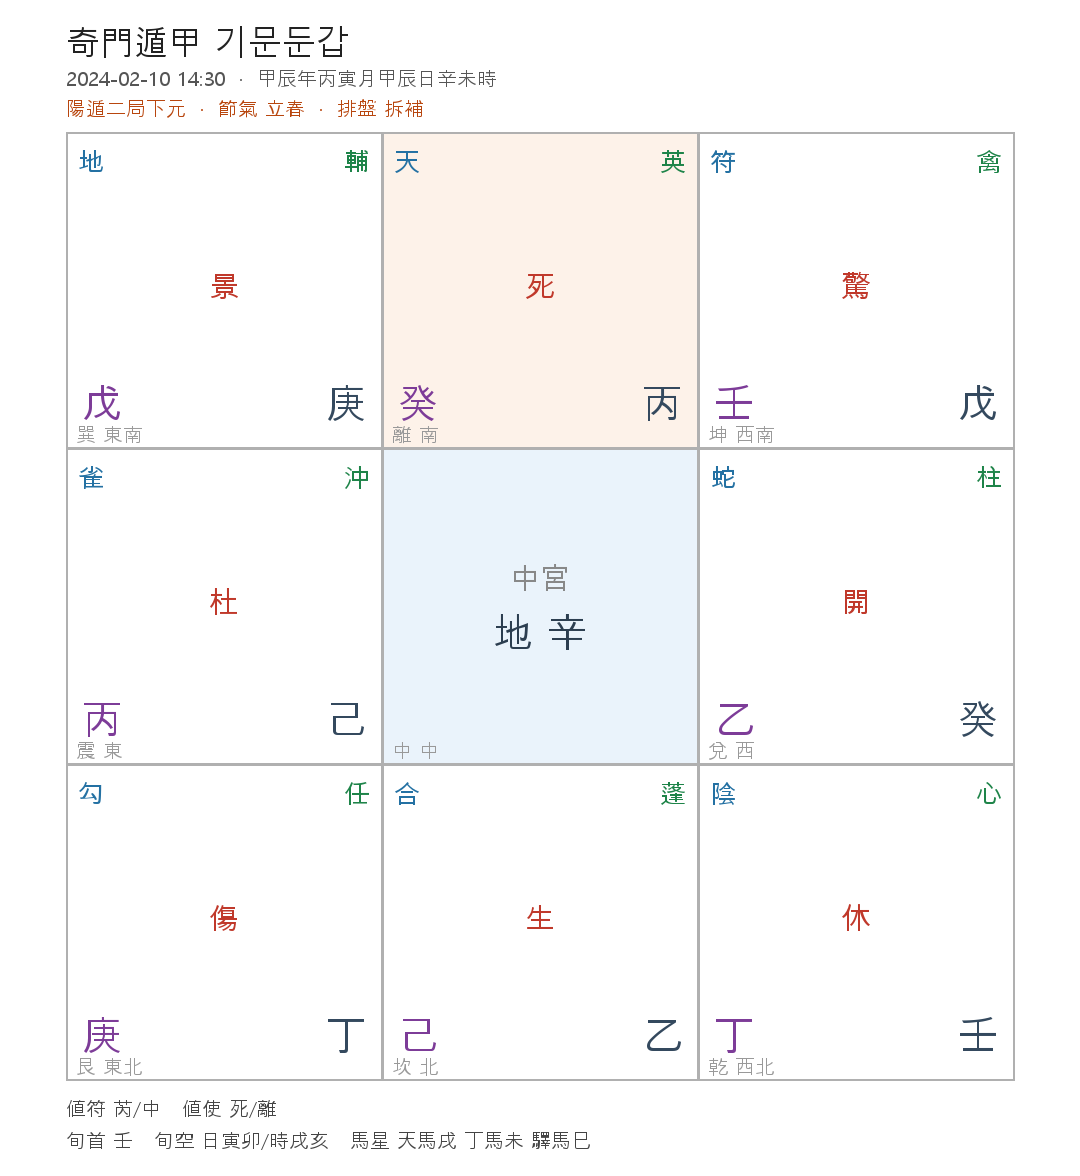
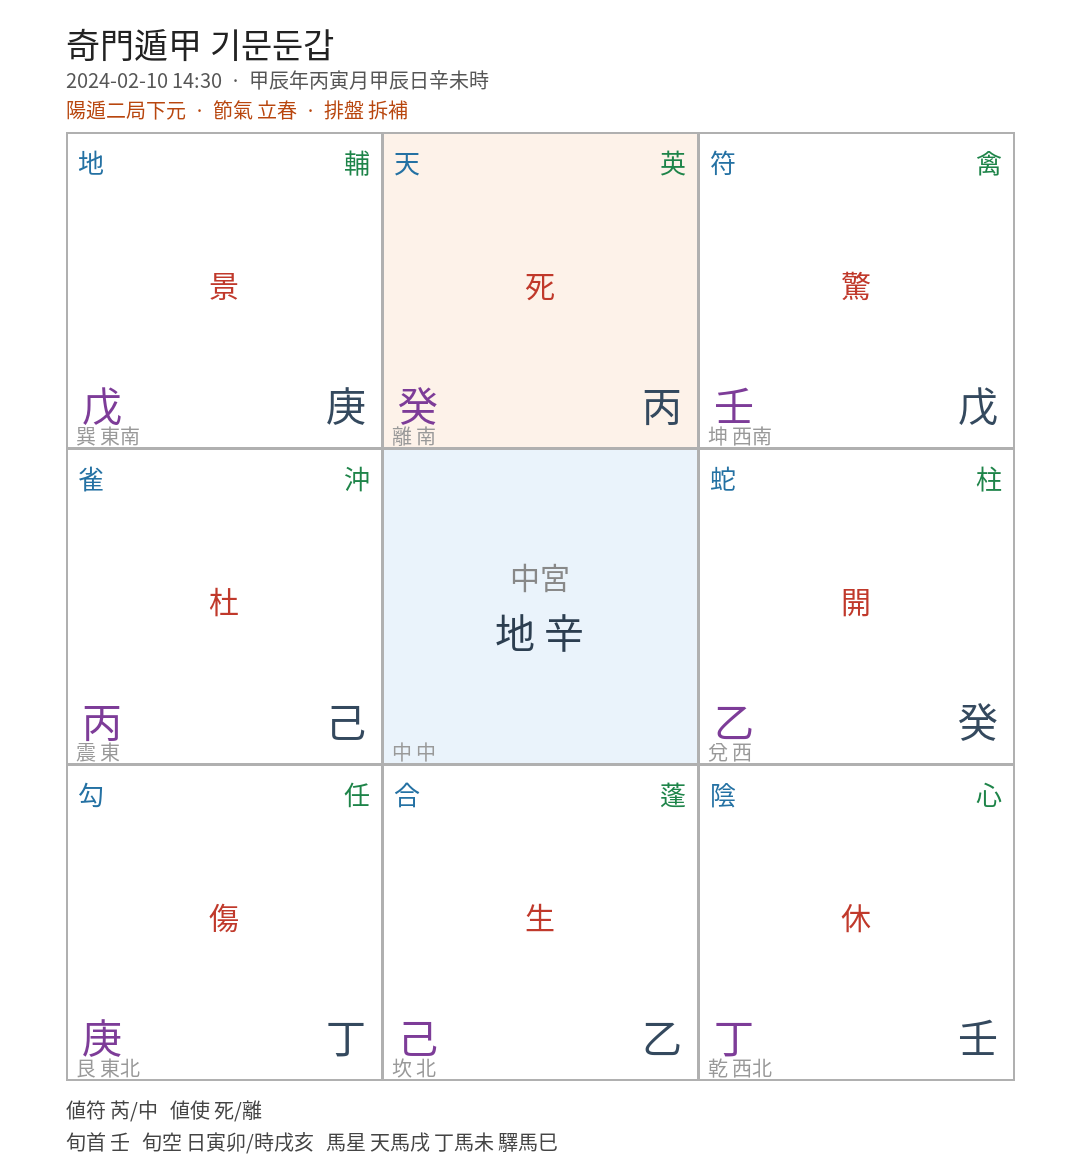
fix(FIX-02): bundle Noto Sans CJK, load explicitly (Pillow, no system-font reliance)
assets/NotoSansCJK-Regular.otf 동봉 + ImageFont.truetype 명시 로드.
load_default 폴백(box 원인) 제거. 예제 9궁 PNG 재생성(한자/한글 box 0).
STANDARD 5절 반영.

diff --git a/qimen_core.py b/qimen_core.py
@@ -87,20 +87,12 @@ def format_text(r: dict) -> str:
 
 
 # ---- PNG 렌더 ----
-_FONT_CANDIDATES = [
-    "C:/Windows/Fonts/malgun.ttf",
-    "C:/Windows/Fonts/batang.ttc",
-    "C:/Windows/Fonts/gulim.ttc",
-    "/usr/share/fonts/opentype/noto/NotoSansCJK-Regular.ttc",
-    "/usr/share/fonts/truetype/nanum/NanumGothic.ttf",
-]
+# repo 동봉 폰트를 명시적으로 로드(시스템 폰트 비의존, 기본 폰트 금지).
+_FONT_PATH = os.path.join(os.path.dirname(os.path.abspath(__file__)), "assets", "NotoSansCJK-Regular.otf")
 
 
 def _font(size: int) -> ImageFont.FreeTypeFont:
-    for p in _FONT_CANDIDATES:
-        if os.path.exists(p):
-            return ImageFont.truetype(p, size)
-    return ImageFont.load_default()
+    return ImageFont.truetype(_FONT_PATH, size)
 
 
 _W = 1080

diff --git a/STANDARD.md b/STANDARD.md
@@ -36,6 +36,7 @@
 
 - SDK: 공식 MCP SDK (`@modelcontextprotocol/sdk` / Python `mcp`).
 - 전송: stdio.
+- ⚠️ 삼식(sxtwl/ephem 의존)은 Windows에서 **Python 3.10/3.11** 필요(3.12+ 휠 부재).
 
 ---
 
@@ -50,6 +51,7 @@ mcp-<name>/
 │  └─ index.ts          # MCP 서버 엔트리
 ├─ skill/
 │  └─ <name>.skill.md   # 페어링 스킬 (도구 호출·해석)
+├─ assets/              # 동봉 리소스(예: CJK 폰트) — §5
 ├─ examples/            # 예제 입력/출력(PNG 포함)
 ├─ package.json
 ├─ tsconfig.json
@@ -70,12 +72,55 @@ Python(삼식)은 `src/` 대신 `server.py`, `pyproject.toml`, `requirements.txt
 
 ---
 
-## 5. 차트 출력 규약 (PNG 통일)
+## 5. 차트 출력 규약 (PNG 통일) — **CJK 폰트 레시피 (확정, FIX-02)**
 
 - 모든 시각화는 **PNG(base64 image content)** 로 반환. (텔레그램/Hermes 호환)
-- SVG 기반 라이브러리는 **서버에서 SVG→PNG 변환**(`sharp` 등).
-- 표준 캔버스: 가로 **1080px** 기준, 여백 **48px**, 배경 흰색(투명 옵션 가능).
-  폰트는 한글 포함(예: Noto Sans KR / Malgun Gothic 계열).
+- 표준 캔버스: 가로 **1080px** 기준, 배경 흰색(투명 옵션 가능).
+- SVG 기반 라이브러리는 **서버에서 SVG→PNG 변환**(`sharp`/`resvg` 등) — 변환 시에도 아래 폰트 공급 원칙 동일.
+
+### 한글/한자 폰트는 반드시 "동봉 + 명시 로드 + family 지정"
+
+> **확정 진단**: 박스(□)는 인코딩 문제가 아니라 **글리프 부재**다.
+> 시스템에 `fonts-noto-cjk`를 깔아도 렌더러가 시스템 폰트를 못 찾으면 □ 그대로 →
+> **코드에서 폰트를 명시 공급**해야 한다.
+
+**3단계 원리** (하나라도 빠지면 □):
+1. repo `assets/`에 **OFL 폰트 동봉**(재배포 가능).
+2. 렌더러에 그 파일을 **경로로 명시 로드**.
+3. 텍스트 `font-family`를 **그 폰트명으로 지정** ← 로드만 하고 family를 `sans-serif`로 두면 계속 □.
+
+**폰트 선택**:
+- 한글 전용 도구 → `Noto Sans KR` (`assets/NotoSansKR-Regular.otf`, ~4.6MB)
+- 한자(번체 포함) 도구 → `Noto Sans CJK` (`assets/NotoSansCJK-Regular.otf`, ~16MB; 한글+CJK 전부 포함)
+
+**JS · node-canvas (`@napi-rs/canvas`)** — biorhythm/ziwei/numerology 적용:
+```ts
+import { GlobalFonts } from "@napi-rs/canvas";
+import { fileURLToPath } from "node:url";
+const FONT = "NotoSansKR"; // 공백 없는 단일 토큰 권장(font 문자열 파싱 안전)
+GlobalFonts.registerFromPath(
+  fileURLToPath(new URL("../assets/NotoSansKR-Regular.otf", import.meta.url)), // dist/ 기준 상대경로
+  FONT
+);
+ctx.font = `20px ${FONT}`; // ← family를 등록한 이름으로 (필수)
+```
+- ECharts면 `textStyle:{fontFamily:'NotoSansKR'}`(전역) / Chart.js면 `Chart.defaults.font.family='NotoSansKR'`.
+- `package.json`의 `files`에 `"assets"` 포함.
+
+**Python · Pillow** — liuren/qimen/taiyi 적용:
+```python
+import os
+from PIL import ImageFont
+_FONT = os.path.join(os.path.dirname(os.path.abspath(__file__)), "assets", "NotoSansCJK-Regular.otf")
+font = ImageFont.truetype(_FONT, size)   # 기본 폰트(ImageFont.load_default) 금지
+```
+
+**기타 렌더러**(참고):
+- `@resvg/resvg-js`: `font:{ fontFiles:['assets/...otf'], defaultFontFamily:'Noto Sans CJK KR' }` + SVG `font-family` 일치.
+- `satori`: `fonts:[{ name:'Noto Sans KR', data:<buffer>, weight:400, style:'normal' }]` + CSS `font-family` 일치.
+- `matplotlib`: `font_manager.fontManager.addfont(path)` 후 `rcParams['font.family']` 또는 `fontproperties=` 지정.
+
+**검증**: 예제 PNG를 재생성해 한글·한자 □가 **0건**인지 눈으로 확인(각 repo `examples/`).
 
 ---
 
@@ -93,6 +138,20 @@ npm install && npm run build
 {
   "mcpServers": {
     "<name>": { "command": "node", "args": ["/abs/path/mcp-<name>/dist/index.js"] }
+  }
+}
+```
+Python MCP(삼식):
+```bash
+git clone https://github.com/<org>/mcp-<name>.git
+cd mcp-<name>
+python -m venv .venv && . .venv/bin/activate
+pip install -r requirements.txt
+```
+```json
+{
+  "mcpServers": {
+    "<name>": { "command": "/abs/path/mcp-<name>/.venv/bin/python", "args": ["/abs/path/mcp-<name>/server.py"] }
   }
 }
 ```
@@ -118,7 +177,7 @@ npm install && npm run build
 ## 9. 공통 완료조건 (Definition of Done)
 
 - [ ] 빌드 통과 (`npm run build` / Python import)
-- [ ] 예제 입력으로 도구 1회 정상 응답 (PNG 있으면 PNG 포함)
+- [ ] 예제 입력으로 도구 1회 정상 응답 (PNG 있으면 PNG 포함, CJK □ 0건)
 - [ ] README 설치 블록으로 **클린 환경에서 설치 재현** 확인
 - [ ] `skill/<name>.skill.md` 1개 포함
 - [ ] GitHub 퍼블릭 공개 + repo URL 보고